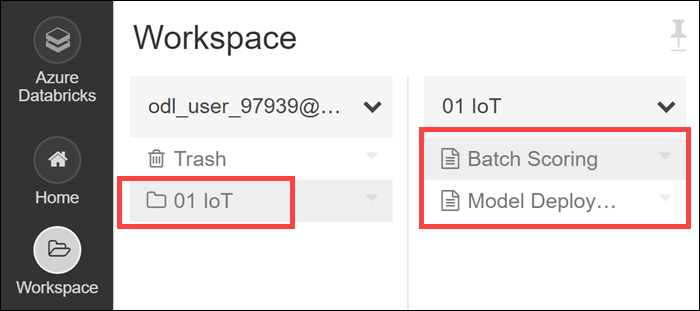
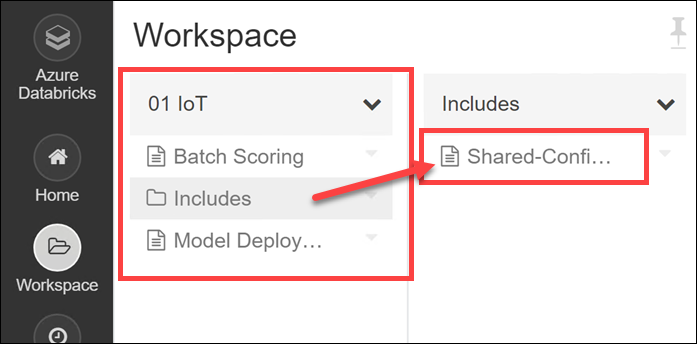
Updated IoT notebooks and instructions

diff --git a/IoT/HOL step-by step - Cosmos DB scenario-based labs - IoT.md b/IoT/HOL step-by step - Cosmos DB scenario-based labs - IoT.md
@@ -812,64 +812,64 @@ Please take a moment to analyze the query below. Notice how we are using the `ev
 
 1. Select **Query** in the left-hand menu. Replace the contents of the query window with the script below:
 
-   ```sql
-   WITH
-   VehicleData AS (
-       select
-           vin,
-           AVG(engineTemperature) AS engineTemperature,
-           AVG(speed) AS speed,
-           AVG(refrigerationUnitKw) AS refrigerationUnitKw,
-           AVG(refrigerationUnitTemp) AS refrigerationUnitTemp,
-           (case when AVG(engineTemperature) >= 400 OR AVG(engineTemperature) <= 15 then 1 else 0 end) as engineTempAnomaly,
-           (case when AVG(engineoil) <= 18 then 1 else 0 end) as oilAnomaly,
-           (case when AVG(transmission_gear_position) <= 3.5 AND
-               AVG(accelerator_pedal_position) >= 50 AND
-               AVG(speed) >= 55 then 1 else 0 end) as aggressiveDriving,
-           (case when AVG(refrigerationUnitTemp) >= 30 then 1 else 0 end) as refrigerationTempAnomaly,
-           System.TimeStamp() as snapshot
-       from events TIMESTAMP BY [timestamp]
-       GROUP BY
-           vin,
-           TumblingWindow(Duration(second, 30))
-   ),
-   VehicleDataAll AS (
-       select
-           AVG(engineTemperature) AS engineTemperature,
-           AVG(speed) AS speed,
-           AVG(refrigerationUnitKw) AS refrigerationUnitKw,
-           AVG(refrigerationUnitTemp) AS refrigerationUnitTemp,
-           COUNT(*) AS eventCount,
-           (case when AVG(engineTemperature) >= 318 OR AVG(engineTemperature) <= 15 then 1 else 0 end) as engineTempAnomaly,
-           (case when AVG(engineoil) <= 20 then 1 else 0 end) as oilAnomaly,
-           (case when AVG(transmission_gear_position) <= 4 AND
-               AVG(accelerator_pedal_position) >= 50 AND
-               AVG(speed) >= 55 then 1 else 0 end) as aggressiveDriving,
-           (case when AVG(refrigerationUnitTemp) >= 22.5 then 1 else 0 end) as refrigerationTempAnomaly,
-           System.TimeStamp() as snapshot
-       from events t TIMESTAMP BY [timestamp]
-       GROUP BY
-           TumblingWindow(Duration(second, 10))
-   )
-   -- INSERT INTO POWER BI
-   SELECT
-       *
-   INTO
-       powerbi
-   FROM
-       VehicleDataAll
-   -- INSERT INTO COSMOS DB
-   SELECT
-       *,
-       entityType = 'VehicleAverage',
-       partitionKey = vin
-   INTO
-       cosmosdb
-   FROM
-       VehicleData
-   ```
+    ```sql
+    WITH
+    VehicleData AS (
+        select
+            vin,
+            AVG(engineTemperature) AS engineTemperature,
+            AVG(speed) AS speed,
+            AVG(refrigerationUnitKw) AS refrigerationUnitKw,
+            AVG(refrigerationUnitTemp) AS refrigerationUnitTemp,
+            (case when AVG(engineTemperature) >= 400 OR AVG(engineTemperature) <= 15 then 1 else 0 end) as engineTempAnomaly,
+            (case when AVG(engineoil) <= 18 then 1 else 0 end) as oilAnomaly,
+            (case when AVG(transmission_gear_position) <= 3.5 AND
+                AVG(accelerator_pedal_position) >= 50 AND
+                AVG(speed) >= 55 then 1 else 0 end) as aggressiveDriving,
+            (case when AVG(refrigerationUnitTemp) >= 30 then 1 else 0 end) as refrigerationTempAnomaly,
+            System.TimeStamp() as snapshot
+        from events TIMESTAMP BY [timestamp]
+        GROUP BY
+            vin,
+            TumblingWindow(Duration(second, 30))
+    ),
+    VehicleDataAll AS (
+        select
+            AVG(engineTemperature) AS engineTemperature,
+            AVG(speed) AS speed,
+            AVG(refrigerationUnitKw) AS refrigerationUnitKw,
+            AVG(refrigerationUnitTemp) AS refrigerationUnitTemp,
+            COUNT(*) AS eventCount,
+            (case when AVG(engineTemperature) >= 318 OR AVG(engineTemperature) <= 15 then 1 else 0 end) as engineTempAnomaly,
+            (case when AVG(engineoil) <= 20 then 1 else 0 end) as oilAnomaly,
+            (case when AVG(transmission_gear_position) <= 4 AND
+                AVG(accelerator_pedal_position) >= 50 AND
+                AVG(speed) >= 55 then 1 else 0 end) as aggressiveDriving,
+            (case when AVG(refrigerationUnitTemp) >= 22.5 then 1 else 0 end) as refrigerationTempAnomaly,
+            System.TimeStamp() as snapshot
+        from events t TIMESTAMP BY [timestamp]
+        GROUP BY
+            TumblingWindow(Duration(second, 10))
+    )
+    -- INSERT INTO POWER BI
+    SELECT
+        *
+    INTO
+        powerbi
+    FROM
+        VehicleDataAll
+    -- INSERT INTO COSMOS DB
+    SELECT
+        *,
+        entityType = 'VehicleAverage',
+        partitionKey = vin
+    INTO
+        cosmosdb
+    FROM
+        VehicleData
+    ```
 
-   ![The Stream Analytics job Query is displayed.](media/stream-analytics-query.png 'Query')
+    ![The Stream Analytics job Query is displayed.](media/stream-analytics-query.png 'Query')
 
 2. Select **Save query**.
 
@@ -2004,9 +2004,20 @@ In this task, you will import the Databricks notebooks into your workspace.
 
    ![The URL has been entered in the import form.](media/databricks-import.png 'Import Notebooks')
 
-5. After importing, select your username. You will see a new folder named `01 IoT`, which contains two notebooks.
+5. After importing, select your username. You will see a new folder named `01 IoT`, which contains two notebooks, and a sub-folder named `Includes`, which contains one notebook.
 
-   ![The imported notebooks are displayed.](media/databricks-notebooks.png 'Imported notebooks')
+    ![The imported notebooks are displayed.](media/databricks-notebooks.png 'Imported notebooks')
+
+6. Open the **Shared-Configuration** notebook located in the `Includes` sub-folder and provide values for your Machine Learning service workspace. You can find these values within the Overview blade of your Machine Learning service workspace that is located in your lab resource group.
+
+    The values highlighted in the screenshot below are for the following variables in the notebooks:
+
+    1. `subscription_id`
+    2. `resource_group`
+    3. `workspace_name`
+    4. `workspace_region`
+
+    ![The required values are highlighted.](media/machine-learning-workspace-values.png "Machine Learning service workspace values")
 
 ### Task 2: Run batch scoring notebook
 

diff --git a/IoT/Demo step-by step - Cosmos DB scenario-based labs - IoT.md b/IoT/Demo step-by step - Cosmos DB scenario-based labs - IoT.md
@@ -499,11 +499,11 @@ In this task, you will import the Databricks notebooks into your workspace.
 
    ![The URL has been entered in the import form.](media/databricks-import.png 'Import Notebooks')
 
-5. After importing, select your username. You will see a new folder named `01 IoT`, which contains two notebooks.
+5. After importing, select your username. You will see a new folder named `01 IoT`, which contains two notebooks, and a sub-folder named `Includes`, which contains one notebook.
 
     ![The imported notebooks are displayed.](media/databricks-notebooks.png 'Imported notebooks')
 
-    In both notebooks, you will be required to provide values for your Machine Learning service workspace. You can find these values within the Overview blade of your Machine Learning service workspace that is located in your lab resource group.
+6. Open the **Shared-Configuration** notebook located in the `Includes` sub-folder and provide values for your Machine Learning service workspace. You can find these values within the Overview blade of your Machine Learning service workspace that is located in your lab resource group.
 
     The values highlighted in the screenshot below are for the following variables in the notebooks:
 
@@ -514,9 +514,9 @@ In this task, you will import the Databricks notebooks into your workspace.
 
     ![The required values are highlighted.](media/machine-learning-workspace-values.png "Machine Learning service workspace values")
 
-6. Complete the **Batch Scoring** notebook to download the trained model. **Note**: Since we've not loaded any data in Cosmos DB at this point, you can stop at **cell 17** (*Load the data from Cosmos DB to batch score it*).
+7. Complete the **Batch Scoring** notebook to download the trained model. **Note**: Since we've not loaded any data in Cosmos DB at this point, you can stop at **cell 17** (*Load the data from Cosmos DB to batch score it*).
 
-7. Complete the **Model Deployment** notebook to deploy the model to ACI. **Note**: You can continue with the rest of the tasks below while the last cell runs (deploying the web service).
+8. Complete the **Model Deployment** notebook to deploy the model to ACI. **Note**: You can continue with the rest of the tasks below while the last cell runs (deploying the web service).
 
 ### Task 13: View Cosmos DB processing Function App in the portal and copy the Health Check URL
 

diff --git a/Retail/Before the HOL - Cosmos DB scenario-based labs - Retail.md b/Retail/Before the HOL - Cosmos DB scenario-based labs - Retail.md
@@ -104,8 +104,8 @@ Synopsis: In this exercise, you will set up your environment for use in the rest
    ```PowerShell
    $githubPath = "PATH YOU EXTRACTED REPO ZIP TO" # Such as: C:\scenario-based-labs-master
    $mode = "lab"  # Can be 'lab' or 'demo'
-   $subscriptionId = "YOUR SUBSCRIPTION ID"
-   $prefix = "YOUR INIT"
+   $subscriptionId = "YOUR SUBSCRIPTION ID" # You can find this at the top of your Azure resource group or any Azure resource, or in the Subscriptions link under "All services" in the portal's left-hand menu
+   $prefix = "YOUR INITIALS"
    $isSpektra = $true # Set to $true if you are running in a Spektra-hosted environment (https://manage.cloudlabs.ai) instead of your own Azure subscription. Otherwise, set to $false.
    $databaseId = "movies"
    $movieApiKey = "YOUR MOVIE API KEY"
@@ -146,11 +146,11 @@ Synopsis: In this exercise, you will set up your environment for use in the rest
 
 12. Once logged in, click the user icon and select **User settings**
 
-![Click your icon, then select User Settings.](./media/xx_DatabricksKey_01.png 'User Settings link')
+    ![Click your icon, then select User Settings.](./media/xx_DatabricksKey_01.png 'User Settings link')
 
 13. Click **Generate New Token**, copy the API key and enter into the PowerShell window. Databricks will proceed to configure itself and execute the necessary notebooks.
 
-![Click the Generate New Token button.](./media/xx_DatabricksKey_02.png 'Generate a Token')
+    ![Click the Generate New Token button.](./media/xx_DatabricksKey_02.png 'Generate a Token')
 
 14. Record the values that were output from the script for use in the lab
 
